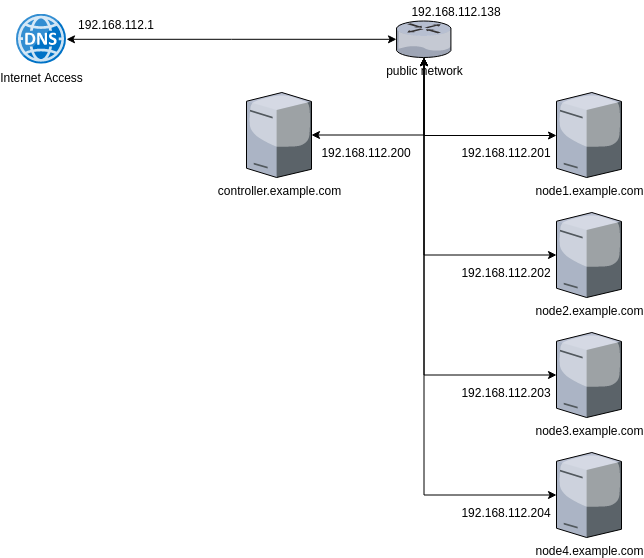
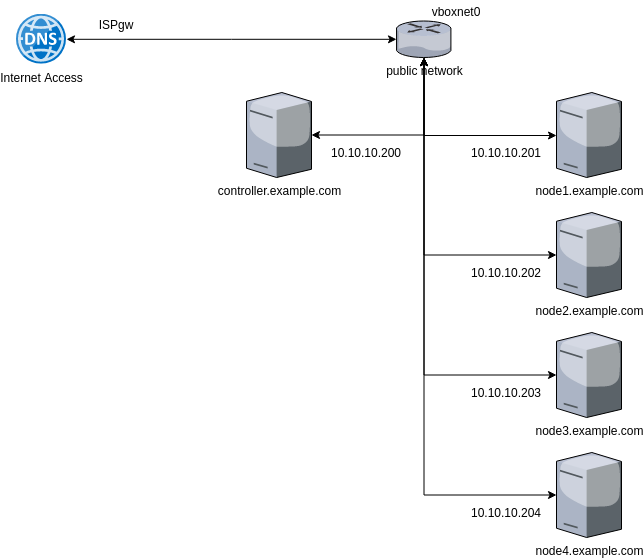
adding results

diff --git a/README.md b/README.md
@@ -10,3 +10,97 @@ The following tools are required to be install on the host:
 
 ### rh134env architecture
 ![architecture](https://github.com/midu16/rh134env/blob/main/doc/lab-design.png)
+
+
+- The VMs after the spawn-up without any customization.
+
+- The user should perform the following tasks manually:
+```
+	- create the username ansible with redhat password on all the hosts.
+
+        - generate the ssh-key from the controller.example.com and share it with the node{1..}.example.com
+
+        - [vagrant@controller ~]$ sudo yum install ansible
+         
+        - [vagrant@controller ~]$ ansible --version
+		ansible 2.9.18
+  		config file = /home/vagrant/ansible.cfg
+  		configured module search path = ['/home/vagrant/.ansible/plugins/modules', '/usr/share/ansible/plugins/modules']
+  		ansible python module location = /usr/lib/python3.8/site-packages/ansible
+  		executable location = /usr/bin/ansible
+  		python version = 3.8.2 (default, Feb 28 2020, 00:00:00) [GCC 10.0.1 20200216 (Red Hat 10.0.1-0.8)]
+```
+
+### Basic ansible configuration
+The project is providing a basic ```ansible.cfg``` and ```inventory```, the transfer would be possible as in the following example:
+```
+$ scp controller.example.com.ansible/* vagrant@10.10.10.200:/home/vagrant
+vagrant@10.10.10.200's password: 
+ansible.cfg                                                                                                             100%  176   475.8KB/s   00:00    
+inventory                                                                                                               100%  351     1.5MB/s   00:00    
+```
+
+### Testing the environment for the first time
+
+After all the manual configurations, lets give a spin of ```ansible``` and test the environment functionality.
+
+```
+[vagrant@controller ~]$ ansible all -m ping
+
+DEPRECATION WARNING]: Distribution fedora 32 on host node3.example.com should use /usr/bin/python3, but is using /usr/bin/python for backward 
+compatibility with prior Ansible releases. A future Ansible release will default to using the discovered platform python for this host. See 
+https://docs.ansible.com/ansible/2.9/reference_appendices/interpreter_discovery.html for more information. This feature will be removed in version 2.12. 
+Deprecation warnings can be disabled by setting deprecation_warnings=False in ansible.cfg.
+node3.example.com | SUCCESS => {
+    "ansible_facts": {
+        "discovered_interpreter_python": "/usr/bin/python"
+    },
+    "changed": false,
+    "ping": "pong"
+}
+[DEPRECATION WARNING]: Distribution fedora 32 on host node4.example.com should use /usr/bin/python3, but is using /usr/bin/python for backward 
+compatibility with prior Ansible releases. A future Ansible release will default to using the discovered platform python for this host. See 
+https://docs.ansible.com/ansible/2.9/reference_appendices/interpreter_discovery.html for more information. This feature will be removed in version 2.12. 
+Deprecation warnings can be disabled by setting deprecation_warnings=False in ansible.cfg.
+node4.example.com | SUCCESS => {
+    "ansible_facts": {
+        "discovered_interpreter_python": "/usr/bin/python"
+    },
+    "changed": false,
+    "ping": "pong"
+}
+[DEPRECATION WARNING]: Distribution fedora 32 on host node1.example.com should use /usr/bin/python3, but is using /usr/bin/python for backward 
+compatibility with prior Ansible releases. A future Ansible release will default to using the discovered platform python for this host. See 
+https://docs.ansible.com/ansible/2.9/reference_appendices/interpreter_discovery.html for more information. This feature will be removed in version 2.12. 
+Deprecation warnings can be disabled by setting deprecation_warnings=False in ansible.cfg.
+node1.example.com | SUCCESS => {
+    "ansible_facts": {
+        "discovered_interpreter_python": "/usr/bin/python"
+    },
+    "changed": false,
+    "ping": "pong"
+}
+[DEPRECATION WARNING]: Distribution fedora 32 on host node2.example.com should use /usr/bin/python3, but is using /usr/bin/python for backward 
+compatibility with prior Ansible releases. A future Ansible release will default to using the discovered platform python for this host. See 
+https://docs.ansible.com/ansible/2.9/reference_appendices/interpreter_discovery.html for more information. This feature will be removed in version 2.12. 
+Deprecation warnings can be disabled by setting deprecation_warnings=False in ansible.cfg.
+node2.example.com | SUCCESS => {
+    "ansible_facts": {
+        "discovered_interpreter_python": "/usr/bin/python"
+    },
+    "changed": false,
+    "ping": "pong"
+}
+[DEPRECATION WARNING]: Distribution fedora 32 on host controller.example.com should use /usr/bin/python3, but is using /usr/bin/python for backward 
+compatibility with prior Ansible releases. A future Ansible release will default to using the discovered platform python for this host. See 
+https://docs.ansible.com/ansible/2.9/reference_appendices/interpreter_discovery.html for more information. This feature will be removed in version 2.12. 
+Deprecation warnings can be disabled by setting deprecation_warnings=False in ansible.cfg.
+controller.example.com | SUCCESS => {
+    "ansible_facts": {
+        "discovered_interpreter_python": "/usr/bin/python"
+    },
+    "changed": false,
+    "ping": "pong"
+}
+```
+
